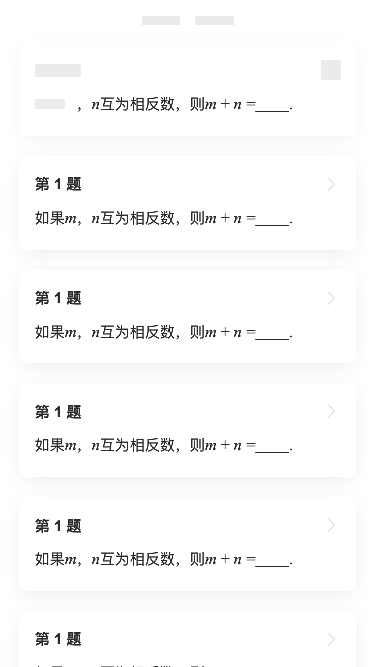
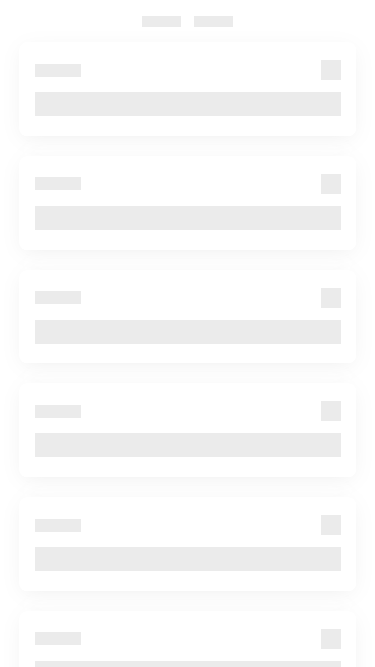
feat:增加过滤标签渲染样式

diff --git a/demo/skeleton-output/skeleton-parent-wx-wrongBook-list.html b/demo/skeleton-output/skeleton-parent-wx-wrongBook-list.html
@@ -5,7 +5,7 @@
     </head>
     <body>
     <div class="skeleton-remove-after-first-request" style="position:absolute;top:0;bottom:0;width:100%;z-index:9999"></div>
[2 lines of base64/hex data omitted]
     </body>
 
     <script class="skeleton-remove-after-first-request">window.SKELETON={destroy:function(){var e=Array.from(document.body.querySelectorAll(".skeleton-remove-after-first-request"));e&&e.map(function(e){document.body.removeChild(e)})}},window.addEventListener("load",function(){setTimeout(function(){},0)})</script>

diff --git a/src/script/dist/index.js b/src/script/dist/index.js
@@ -495,7 +495,6 @@
     }
 
     const ComputedStyle = getComputedStyle(node);
-
     // The background image is changed to the main color
     if (ComputedStyle.backgroundImage !== 'none') {
       node.style.backgroundImage = 'none';
@@ -510,10 +509,10 @@
     }
 
     // The border is changed to the main color
+
     if (ComputedStyle.borderColor) {
       node.style.borderColor = MAIN_COLOR;
       node.style.backgroundColor = 'transparent';
-
     }
 
     // Set the background color of the user class
@@ -679,20 +678,31 @@
       const tagId = node.id;
       const filterClass = this.options.filterClass;
       const filterAs = [];
-       filterClass.map(filter =>{
-        const reg = RegExp(filter);
-        const tagClass = reg.test(node.className);
-        if(tagClass === true){
-          filterAs.push(filter);
+      tagName &&  filterClass.map(filter =>{
+        const isClassName = document.querySelector(node.tagName.toLocaleLowerCase()).classList.contains( typeof filter === 'object' ? filter.class : filter);
+        if(isClassName == true){
+          filterAs.push(typeof filter === 'object' ? filter.class : filter);
         }
       });
       // console.log(node.className === 'content')
       // Preprocessing some styles
       beforeHandler(node, this.options);
       if(filterAs.length > 0){
+        console.log(typeof filterClass);
+        // 此处做成自定义传递参数来进行渲染
+        if(typeof filterClass == 'object'){
+          filterClass.map(filter =>{
+            const thePresent = document.querySelector(node.tagName.toLocaleLowerCase()).classList.contains(filter.class);
+            if(thePresent == true){
+              node.style.backgroundColor = filter.color;
+              node.style.color = filter.color;
+            }
+          });
+        }else {
+          node.style.backgroundColor = 'transparent';
+          node.style.color = 'transparent';
+        }
 
-        node.style.backgroundColor = 'transparent';
-        node.style.color = 'transparent';
         if(tagName == 'IMG'){
           node.style.display = 'none';
         }

diff --git a/demo/index.js b/demo/index.js
@@ -7,31 +7,36 @@ const spliPageName = (url) => {
 };
 
 const skeletonObj = [
-  // {
-  //   pageUrl:
-  //     "http://10.8.16.145:8080/parent-wx-h5Shop-shopShow.html?actId=5e796b01cce13f039dca4ee5",
-  //   filterClass: [],
-  // },
-  // {
-  //   pageUrl:
-  //     "http://10.8.16.145:8080/parent-wx-h5Shop-list.html?id=5db95977947acb2e6d0c5a2d&fromtype=zheguangtestdddd&code=061qlt7j29zDpB0wE56j2HXe7j2qlt7j&state=parent",
-  //   filterClass: [],
-  // },
-  // {
-  //   pageUrl:
-  //     "http://10.8.16.145:8080/parent-wx-h5Shop-my.html?id=5db95977947acb2e6d0c5a2d&fromtype=zheguangtestdddd",
-  //   filterClass: [],
-  // },
+  {
+    pageUrl:
+      "http://10.8.16.145:8080/parent-wx-h5Shop-shopShow.html?actId=5e796b01cce13f039dca4ee5",
+    filterClass: [],
+  },
+  {
+    pageUrl:
+      "http://10.8.16.145:8080/parent-wx-h5Shop-list.html?id=5db95977947acb2e6d0c5a2d&fromtype=zheguangtestdddd&code=061qlt7j29zDpB0wE56j2HXe7j2qlt7j&state=parent",
+    filterClass: [],
+  },
+  {
+    pageUrl:
+      "http://10.8.16.145:8080/parent-wx-h5Shop-my.html?id=5db95977947acb2e6d0c5a2d&fromtype=zheguangtestdddd",
+    filterClass: [],
+  },
 
-  // {
-  //   pageUrl:
-  //     "http://10.8.16.145:8080/parent-wx-h5Shop-orderList.html?id=5db95977947acb2e6d0c5a2d",
-  //   filterClass: [],
-  // },
+  {
+    pageUrl:
+      "http://10.8.16.145:8080/parent-wx-h5Shop-orderList.html?id=5db95977947acb2e6d0c5a2d",
+    filterClass: [],
+  },
   {
     pageUrl:
       "https://h5-v5-0.yangcong345.com/parent-wx-wrongBook-list.html?unionId=o8Xt4t-FKNinpBkr1dzMRgUsxUGM&fromType=all",
-    filterClass: [],
+    filterClass: [
+      {
+        class:'topic',
+        color: "#ebebeb",
+      }
+    ],
   },
 ];
 skeletonObj.map((item) => {
@@ -42,7 +47,7 @@ skeletonObj.map((item) => {
     device: "iPhone 6", // 为空则使用默认 PC 页面打开
     minGrayBlockWidth: 20,
     minGrayPseudoWidth: 10,
-    debug: false,
+    debug: flase,
     debugTime: 3000,
     filterClass: item.filterClass,
     // outputPath:'./ggname'//写入你要生成的目录在哪个项目里

diff --git a/src/script/main.js b/src/script/main.js
@@ -166,20 +166,31 @@ window.AwesomeSkeleton = {
     const tagId = node.id;
     const filterClass = this.options.filterClass
     const filterAs = []
-     filterClass.map(filter =>{
-      const reg = RegExp(filter);
-      const tagClass = reg.test(node.className);
-      if(tagClass === true){
-        filterAs.push(filter)
+    tagName &&  filterClass.map(filter =>{
+      const isClassName = document.querySelector(node.tagName.toLocaleLowerCase()).classList.contains( typeof filter === 'object' ? filter.class : filter)
+      if(isClassName == true){
+        filterAs.push(typeof filter === 'object' ? filter.class : filter)
       }
     })
     // console.log(node.className === 'content')
     // Preprocessing some styles
     handler.before(node, this.options);
     if(filterAs.length > 0){
+      console.log(typeof filterClass)
+      // 此处做成自定义传递参数来进行渲染
+      if(typeof filterClass == 'object'){
+        filterClass.map(filter =>{
+          const thePresent = document.querySelector(node.tagName.toLocaleLowerCase()).classList.contains(filter.class)
+          if(thePresent == true){
+            node.style.backgroundColor = filter.color;
+            node.style.color = filter.color;
+          }
+        })
+      }else{
+        node.style.backgroundColor = 'transparent';
+        node.style.color = 'transparent';
+      }
 
-      node.style.backgroundColor = 'transparent';
-      node.style.color = 'transparent';
       if(tagName == 'IMG'){
         node.style.display = 'none';
       }

diff --git a/src/script/handler/before.js b/src/script/handler/before.js
@@ -26,7 +26,6 @@ function beforeHandler(node, options) {
   }
 
   const ComputedStyle = getComputedStyle(node);
-
   // The background image is changed to the main color
   if (ComputedStyle.backgroundImage !== 'none') {
     node.style.backgroundImage = 'none';
@@ -41,10 +40,10 @@ function beforeHandler(node, options) {
   }
 
   // The border is changed to the main color
+
   if (ComputedStyle.borderColor) {
     node.style.borderColor = MAIN_COLOR;
     node.style.backgroundColor = 'transparent';
-
   }
 
   // Set the background color of the user class

diff --git a/src/index.js b/src/index.js
@@ -51,7 +51,7 @@ const getSkeleton = async function(options) {
   const result = insertSkeleton(skeletonImageBase64, options);
 
   // Close the browser
-  await browser.close();
+  // await browser.close();
 
   return result;
 };
